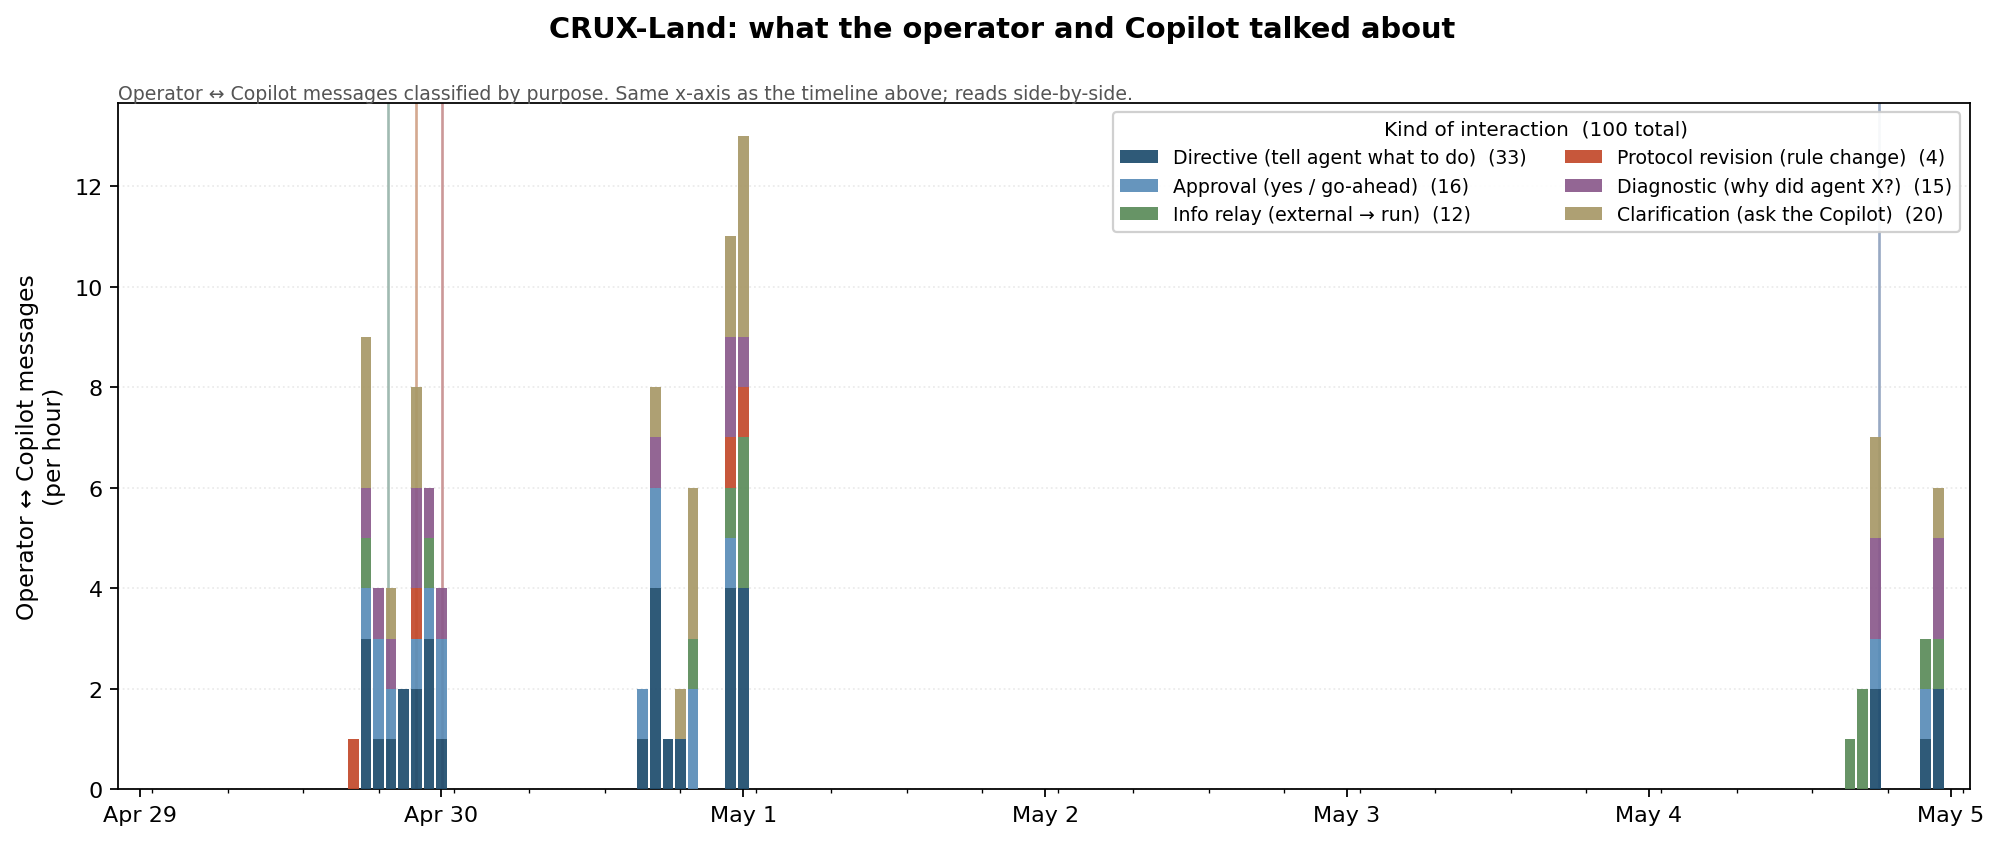
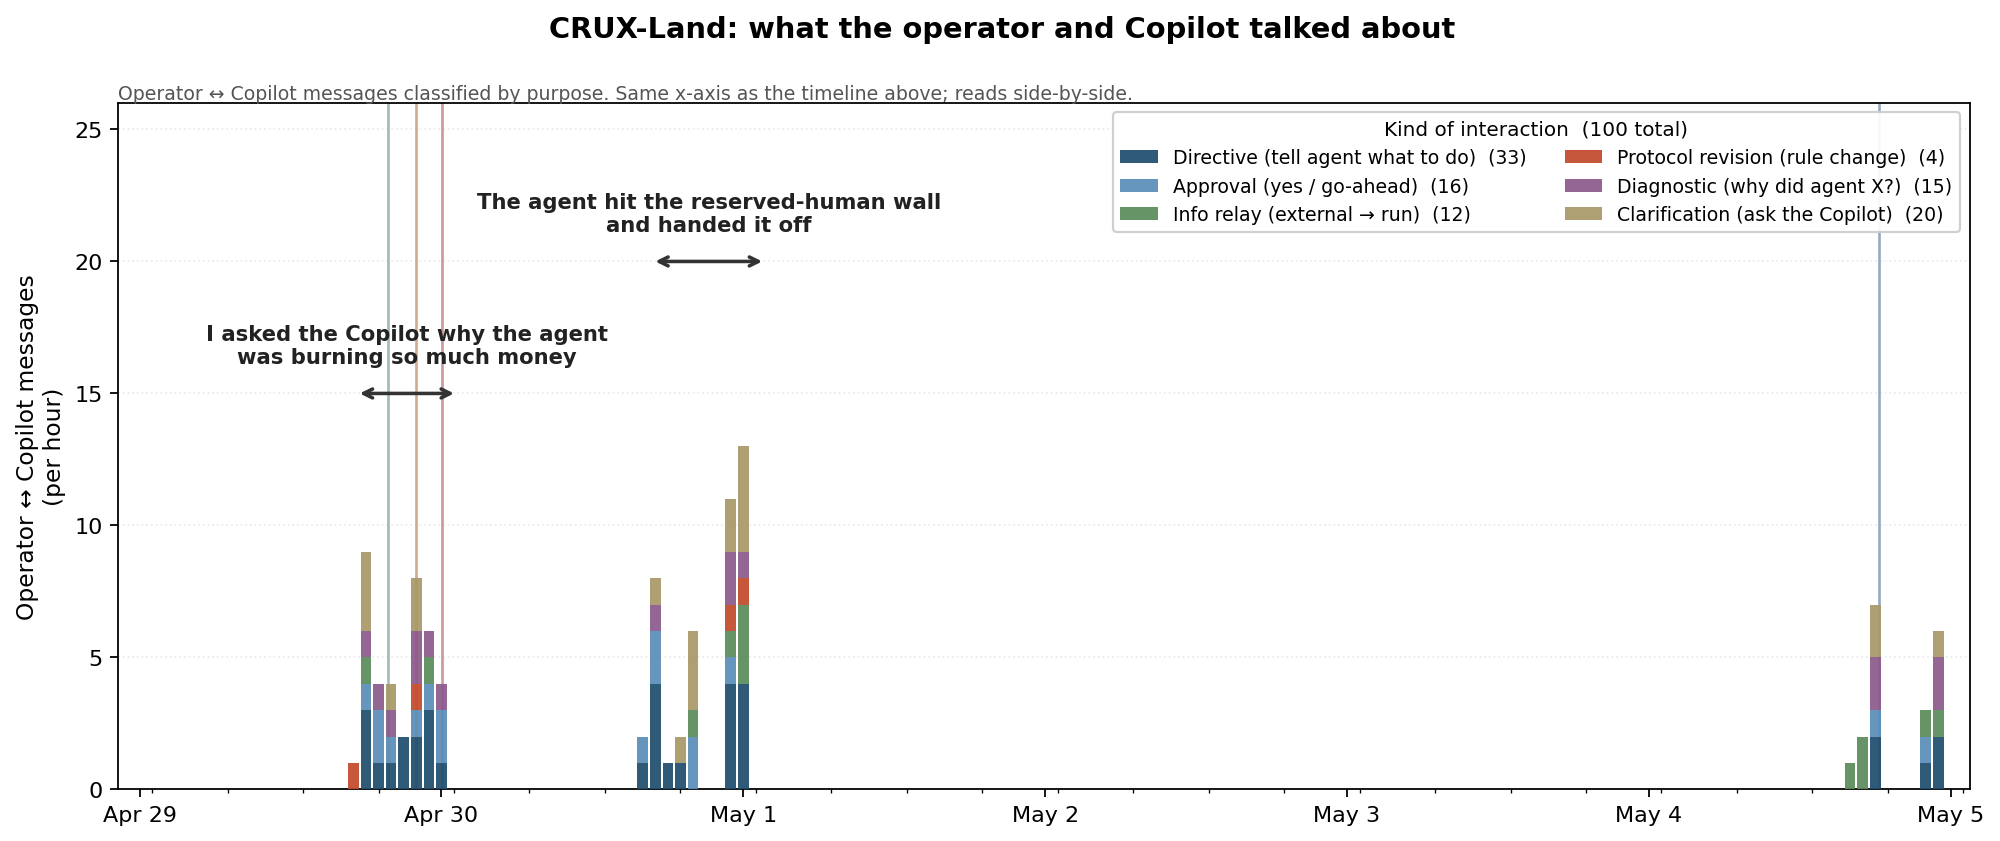
blog/crux-land: wide diagrams, Moira's landscape photo, activity-bracket annotations
- Add `.wide-figure` CSS + MDX img override so the roles diagram,
  cost/interaction timeline, and interaction-breakdown chart can
  break out of the 624px prose column to 1100px. Photos stay narrow.
- Annotate the interactions chart with two staggered brackets over
  the activity clusters: "I asked the Copilot why the agent was
  burning so much money" (Apr 29 evening) and "The agent hit the
  reserved-human wall and handed it off" (Apr 30 evening).
- Embed Moira's actual photo of the Costilla high desert — one of
  seven she sent with her second email. Caption quotes her line:
  "Those lots are really pretty."
- Replace narrative "the operator" with "I" in the Moira section,
  Copilot-phase paragraph, the chart caption, and the CRUX-Vault-Zero
  close. The defined Operator role stays for methodology + timeline-
  table labels.
- Cut "an attention budget I couldn't sustain unaided" — sophistication-
  signaling jargon per TONE.md.

diff --git a/src/mdx-components.tsx b/src/mdx-components.tsx
@@ -1,5 +1,25 @@
 import type { MDXComponents } from "mdx/types";
+import type { ImgHTMLAttributes } from "react";
+
+const WIDE_IMAGES = new Set([
+  "roles.png",
+  "run-timeline.png",
+  "run-interactions.png",
+]);
+
+function MdxImg({ src, alt, ...rest }: ImgHTMLAttributes<HTMLImageElement>) {
+  const filename = typeof src === "string" ? (src.split("/").pop() ?? "") : "";
+  const isWide = WIDE_IMAGES.has(filename);
+  return (
+    <img
+      src={src}
+      alt={alt}
+      className={isWide ? "wide-figure" : undefined}
+      {...rest}
+    />
+  );
+}
 
 export function useMDXComponents(components: MDXComponents): MDXComponents {
-  return { ...components };
+  return { ...components, img: MdxImg };
 }

diff --git a/src/app/globals.css b/src/app/globals.css
@@ -35,3 +35,15 @@ a {
   text-decoration-thickness: 1px;
   text-underline-offset: 2px;
 }
+
+.wide-figure {
+  display: block;
+  width: min(95vw, 1100px);
+  max-width: none;
+  height: auto;
+  position: relative;
+  left: 50%;
+  transform: translateX(-50%);
+  margin-top: 1.5rem;
+  margin-bottom: 1.5rem;
+}
